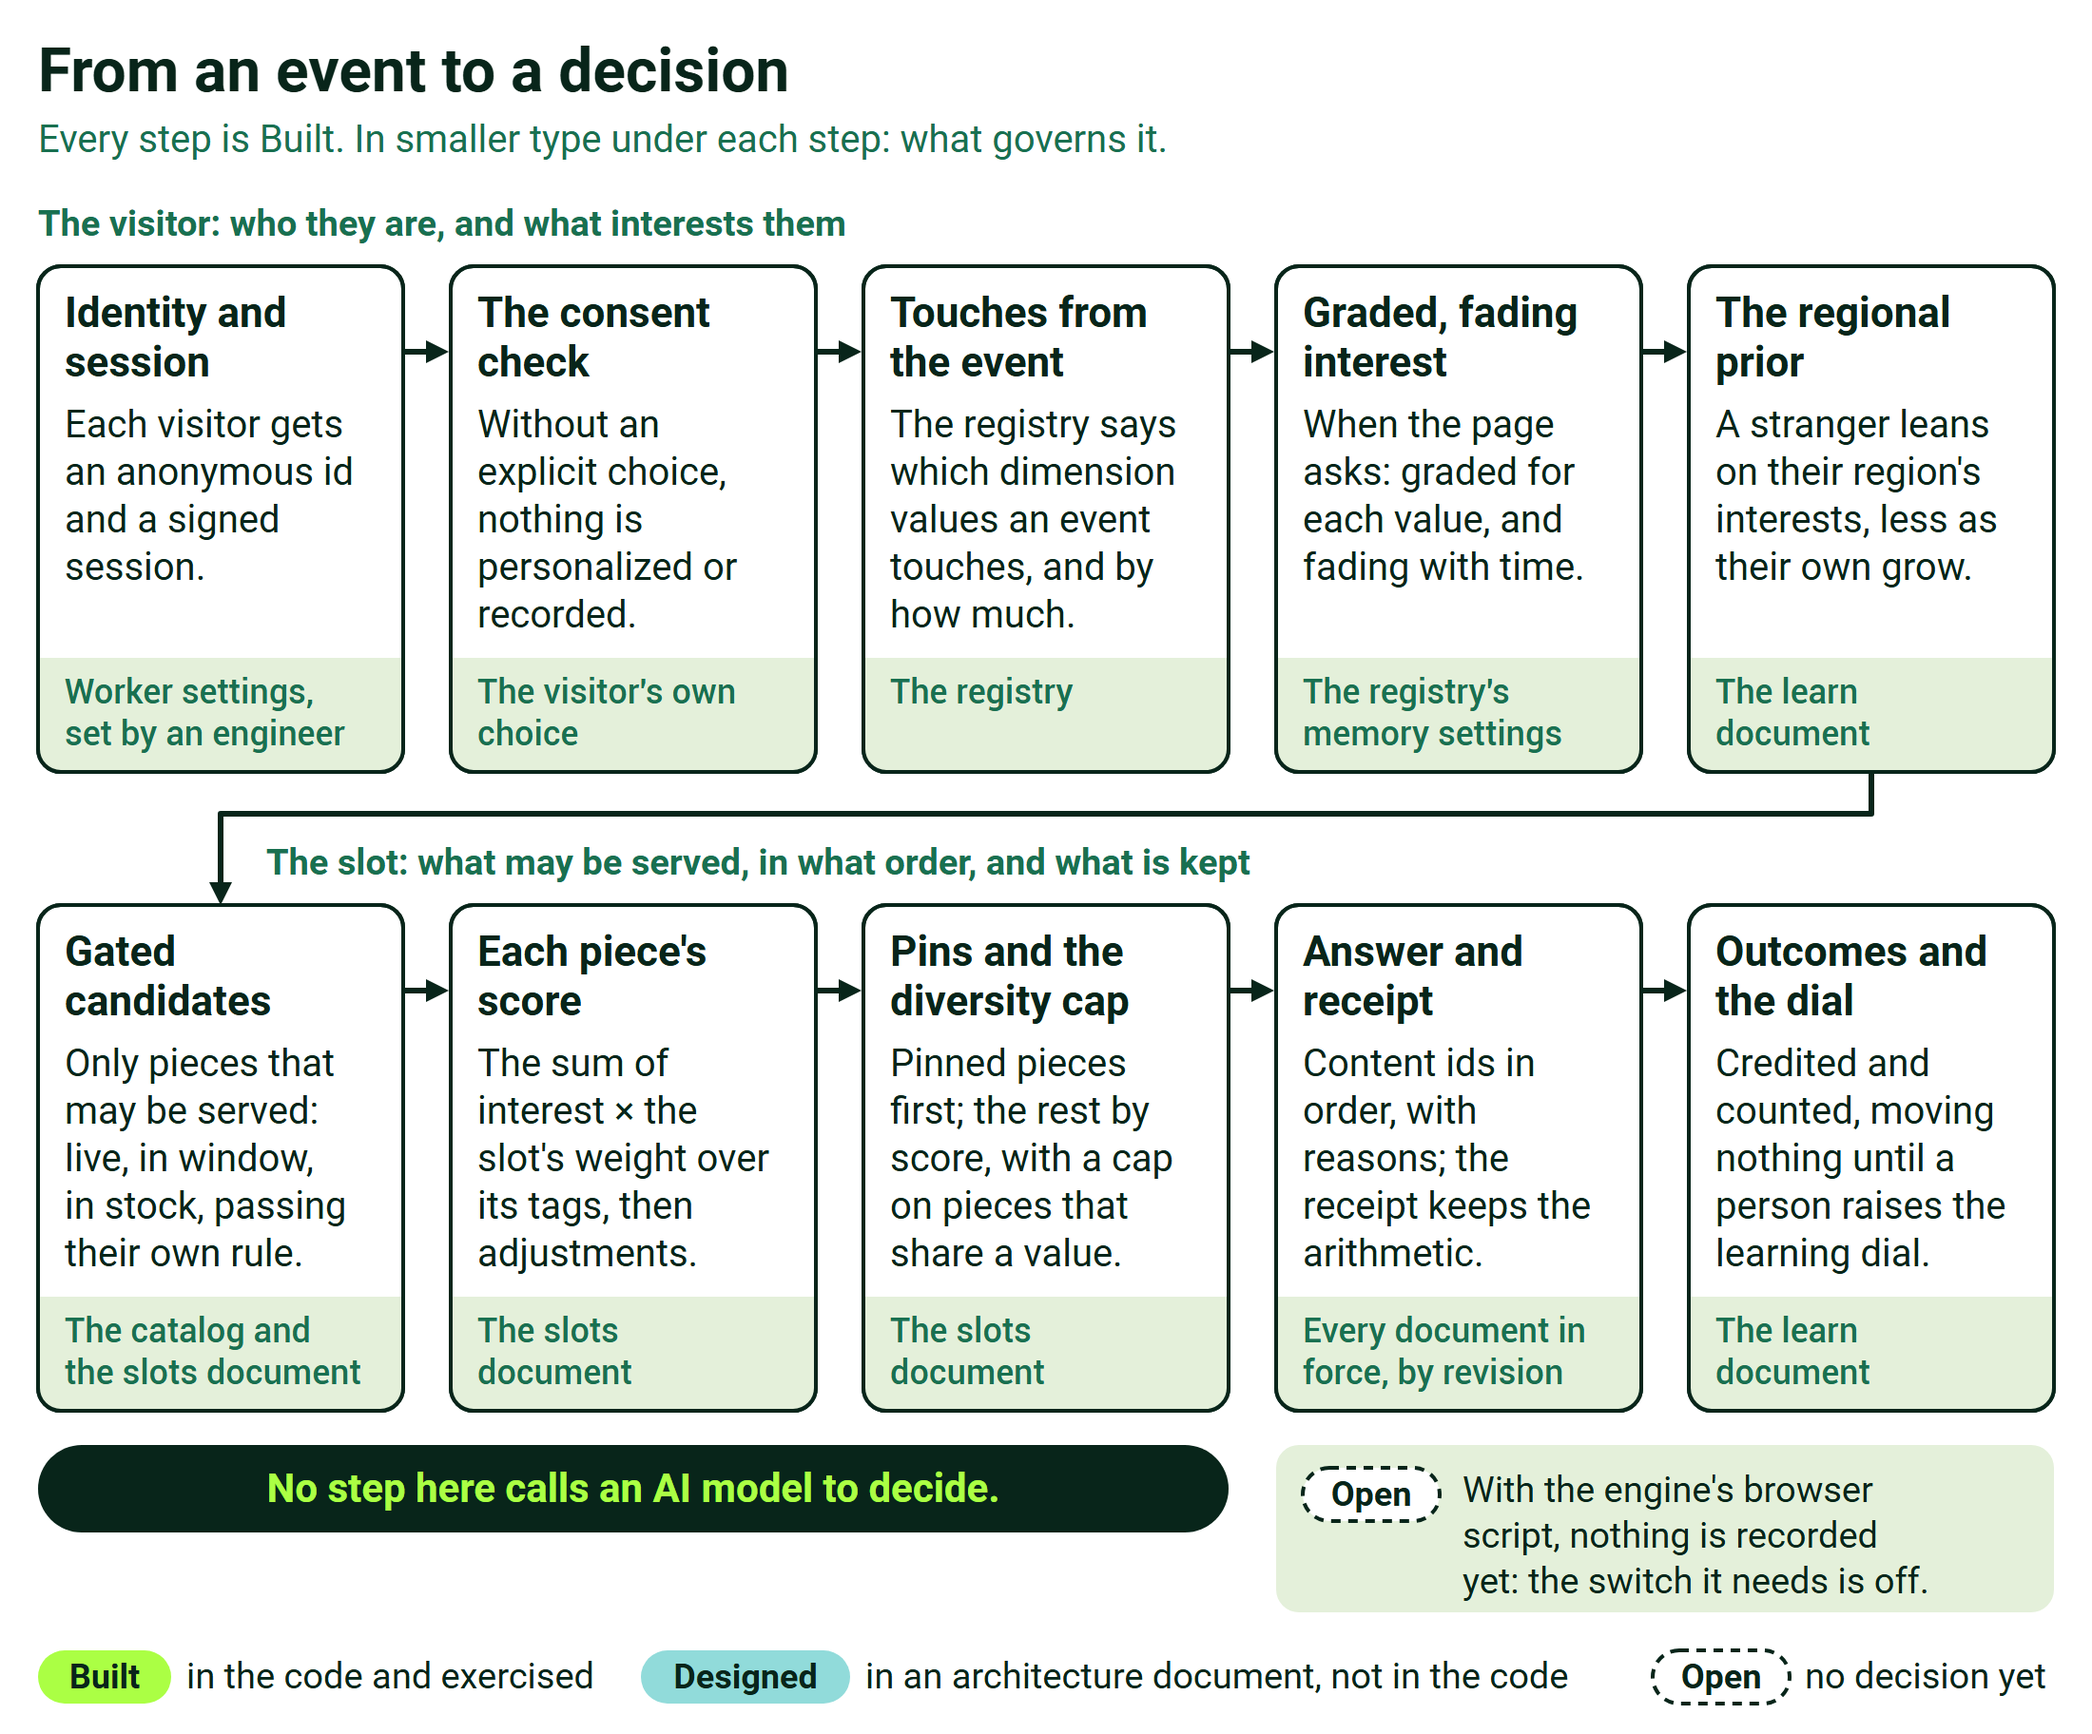
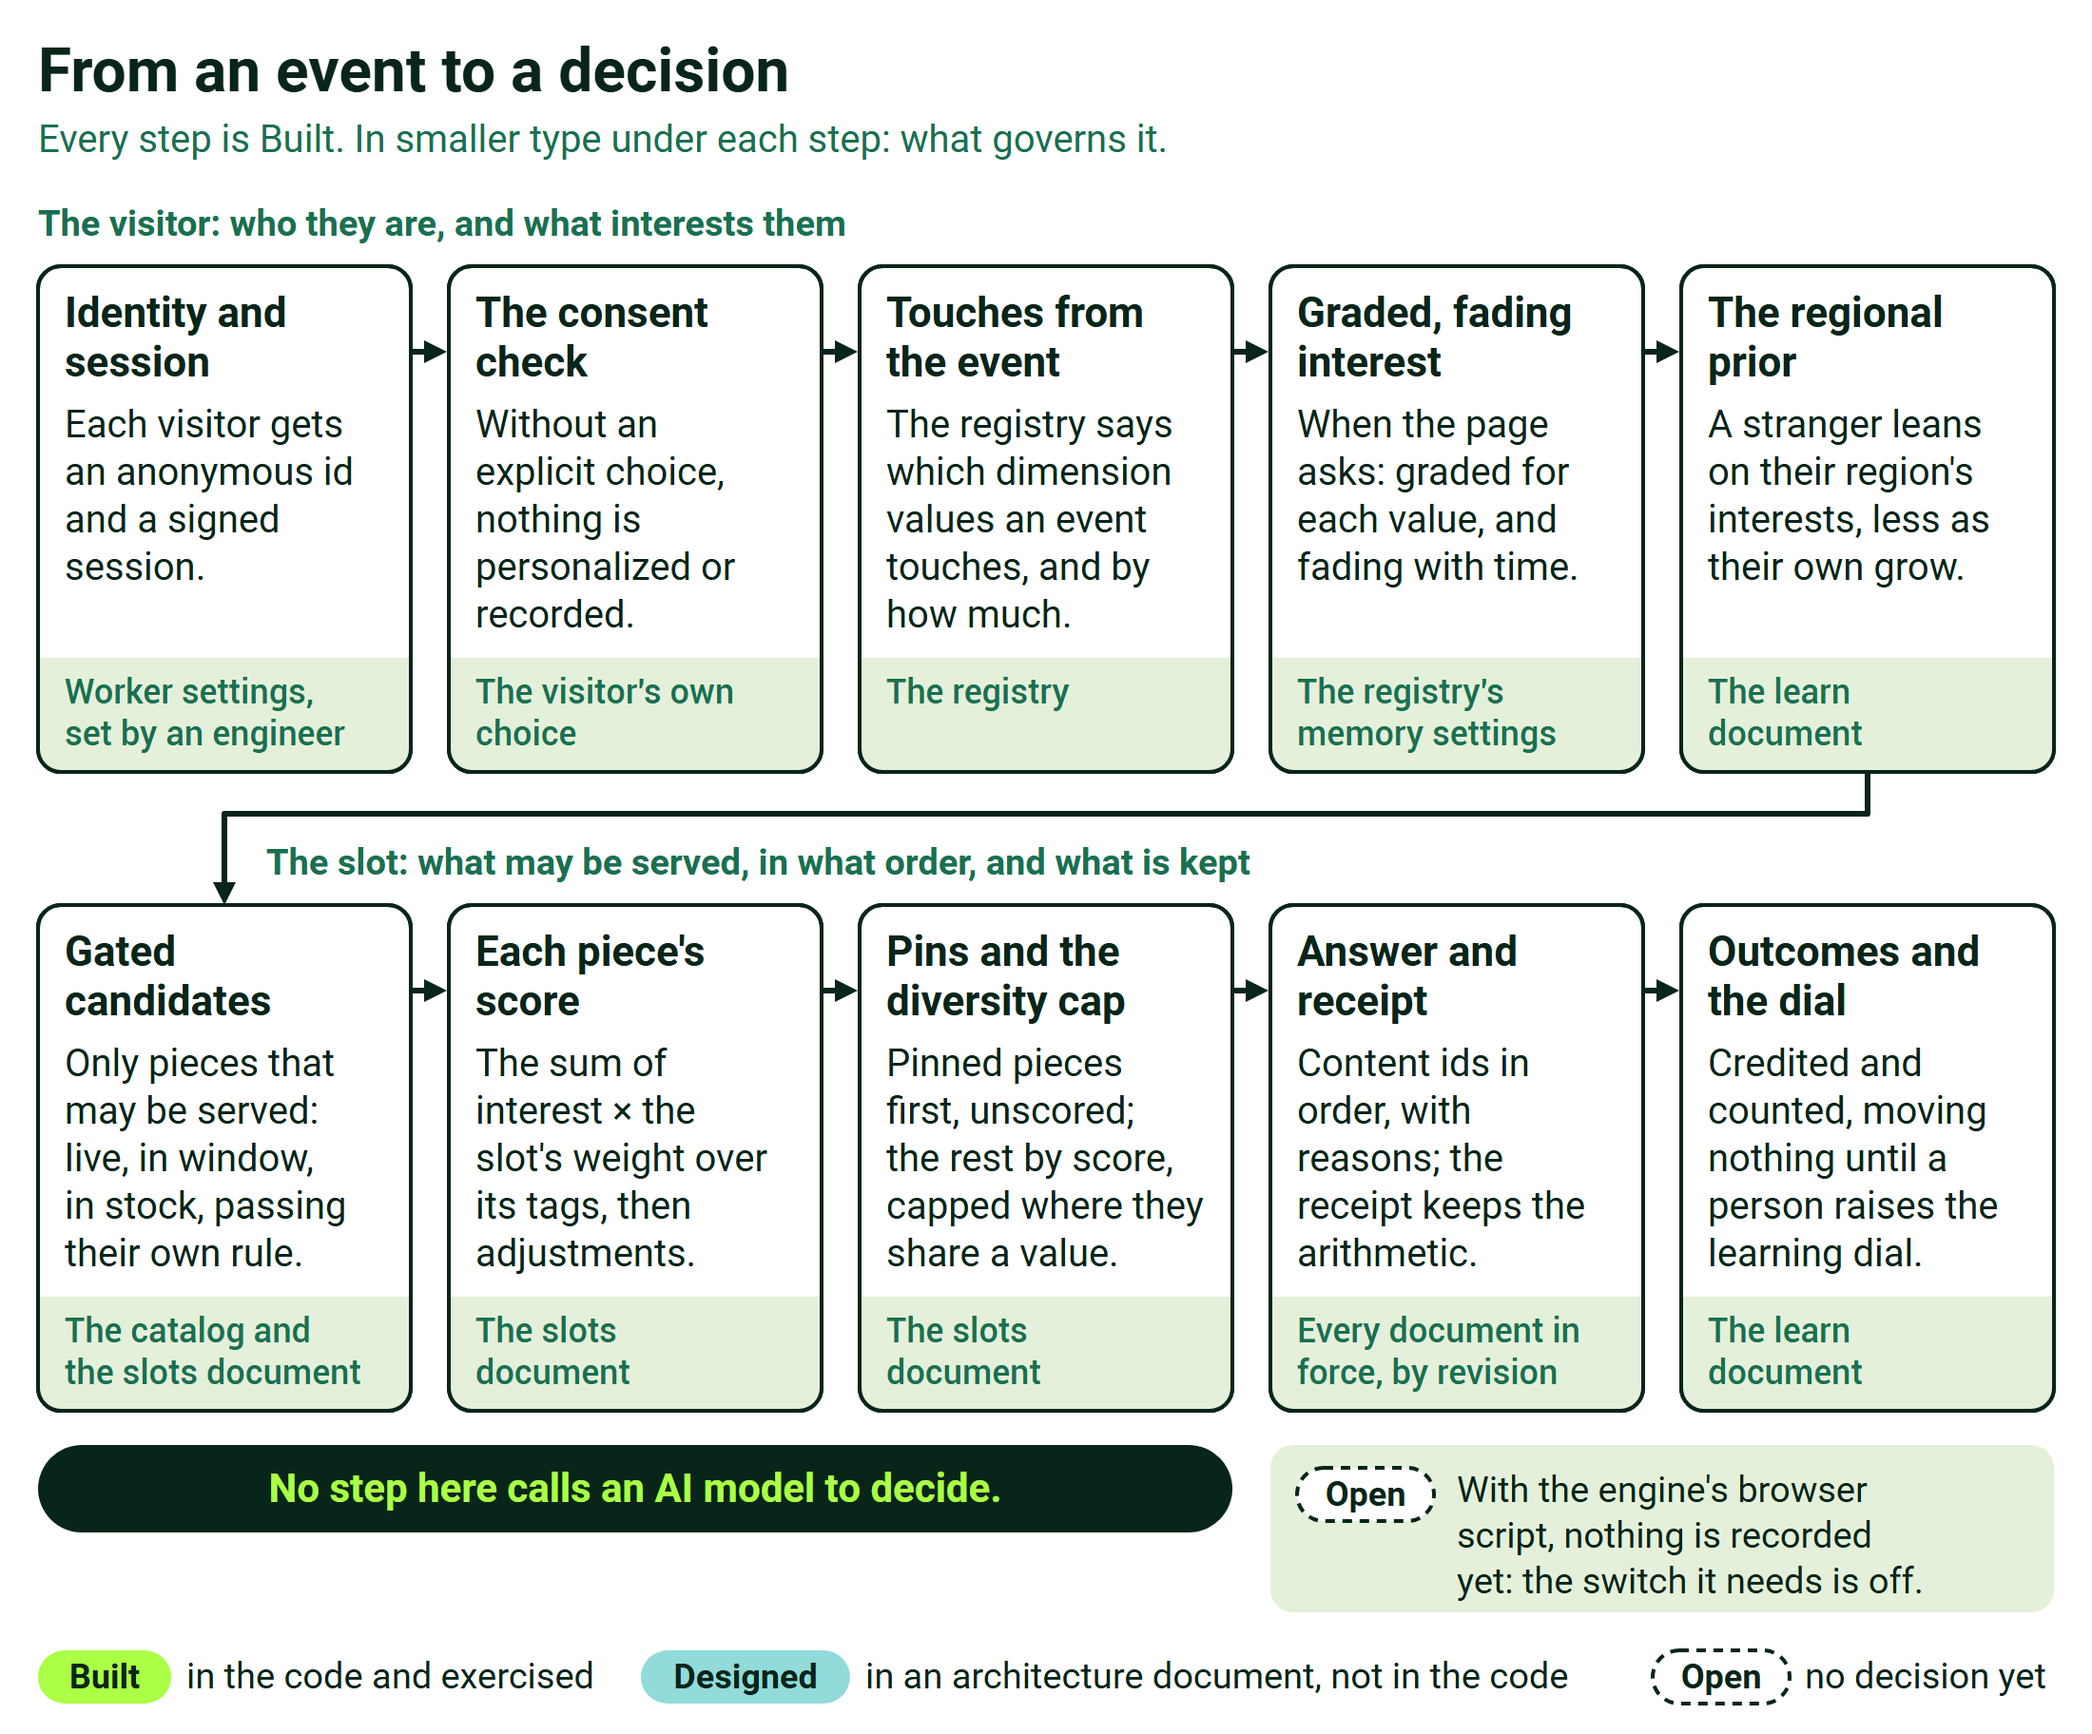
Enablement figures: one legend only; pins reserved before scoring in the decision path

diff --git a/docs/enablement/lanes/D1.md b/docs/enablement/lanes/D1.md
@@ -14,8 +14,8 @@ This lane's paths:
 | Figure | SVG canvas | PNG (device scale 2) | Height at 6.5 in wide |
 |---|---|---|---|
 | `architecture.svg`: "Where the engine runs on Cloudflare" | 1100 × 1320 | `architecture.png`, 2200 × 2640 px, 533,355 bytes | 7.80 in |
-| `decision-path.svg`: "From an event to a decision" | 1100 × 912 | `decision-path.png`, 2200 × 1824 px, 349,261 bytes | 5.39 in |
-| `before-during-after.svg`: "One visitor's session: what happens before, during and after" | 1100 × 1012 | `before-during-after.png`, 2200 × 2024 px, 444,757 bytes | 5.98 in |
+| `decision-path.svg`: "From an event to a decision" | 1100 × 912 | `decision-path.png`, 2200 × 1824 px, 349,905 bytes | 5.39 in |
+| `before-during-after.svg`: "One visitor's session: what happens before, during and after" | 1100 × 968 | `before-during-after.png`, 2200 × 1936 px, 417,472 bytes | 5.72 in |
 
 All three fit under the converter's 8 in limit, so `scripts/md2docx.mjs` sets each at the full 6.5 in text width.
 
@@ -79,7 +79,7 @@ calls an AI model to decide. The drawing and its description carry no numeral an
 | The regional prior | A stranger leans on their region's interests, less as their own grow | The learn document | 3.6; 3.7; 3.17 |
 | Gated candidates | Only pieces that may be served: live, in window, in stock, passing their own rule | The catalog and the slots document | 3.9; 3.10; 4.2 |
 | Each piece's score | The sum of interest × the slot's weight over its tags, then adjustments | The slots document | 3.11 |
-| Pins and the diversity cap | Pinned pieces first; the rest by score, with a cap on pieces that share a value | The slots document | 3.10; 3.12 |
+| Pins and the diversity cap | Pinned pieces first, unscored; the rest by score, capped where they share a value | The slots document | 3.10; 3.12 |
 | Answer and receipt | Content ids in order, with reasons; the receipt keeps the arithmetic | Every document in force, by revision | 3.14 |
 | Outcomes and the dial | Credited and counted, moving nothing until a person raises the learning dial | The learn document | 3.13; 3.15; 5.2; 5.7 |
 | Open, under the last two steps | With the engine's browser script, nothing is recorded yet: the switch it needs is off | | 3.15; 10.2 |
@@ -87,18 +87,18 @@ calls an AI model to decide. The drawing and its description carry no numeral an
 
 ### 2.3 `before-during-after.svg`
 
-**Assertion.** The credits page's device: the rule in two halves, three phases of one visitor's session, a
-verdict band on every card in one legend, a status chip on every card, the one exception flagged once, and a
+**Assertion.** The credits page's device: the rule in two halves, three parts of one visitor's session, a
+credit line in words on every card, a status chip on every card, the one exception flagged once, and a
 takeaway per phase. During the session the engine calls no AI model to decide and uses no credits. Opal's part is
 the documented rule and is not wired today.
 
-| Card | Verdict | Status | Sources |
+| Card | Credit line | Status | Sources |
 |---|---|---|---|
 | Rule: The engine decides. Calls no AI model to decide; no credits | | Built | S2 6.1; 6.2 |
 | Rule: Opal creates and explains. Credits apply, as documented | | Open, not wired today | S2 6.2; guide 1 |
 | Before: The team publishes the documents the engine follows | No AI · no credits | Built | S2 4.1-4.6 |
 | Before: Opal drafts an audience, a test or a setting from plain words; a person approves | Credits apply | Open, not wired today | S2 6.2; guide 2 (BEFORE) |
-| Before: A model on the customer's own key suggests content labels; a person approves each one | Credits not decided | Built, off by default | S2 6.1; 6.3 |
+| Before: A model on the customer's own key suggests tags for content; a person approves each one | Credits not decided | Built, off by default | S2 6.1; 6.3 |
 | Before, takeaway: Credits follow the team's requests, not the traffic | | | guide 1; 3, item 2 |
 | During: The engine decides at the edge, from the published rules | No AI · no credits | Built | S2 1; 6.1 |
 | During: Interest, ranking and receipts are arithmetic, written as data | No AI · no credits | Built | S2 6.1; 6.2 |
@@ -107,8 +107,8 @@ the documented rule and is not wired today.
 | After: The engine credits and counts outcomes; nothing moves until a person raises the learning dial | No AI · no credits | Built; Open: nothing is recorded yet from the engine's browser script | S2 3.15; 5.1; 5.2; 10.2 |
 | After: The team reads the receipts and the day report in the console | No AI · no credits | Built | S2 3.14; 3.16; 4.5 |
 | After: Asking Opal to explain results or find patterns in them | Credits apply | Open, not wired today | S2 6.2; guide 2 (AFTER) |
-| After, takeaway: The learning costs no credits; asking Opal about it does | | | guide 1; 5 (FAQ) |
-| Legend note: Verdicts follow the documented credit rule, which is Designed; the billing meter is Open | | | S2 6.3; 10.1 |
+| After, takeaway: The learning costs no credits; asking Opal about it would | | | guide 1; 5 (FAQ); S2 6.2 |
+| Legend note: The credit line on each card follows the documented credit rule, which is Designed; the billing meter is Open | | | S2 6.3; 10.1 |
 
 The guide's rows not carried: Opal creating audiences "in ODP" (S2 6.2 and Appendix A correct it); the CMAB and
 ODP rows of DURING (separate products under their own licences, not in the decision path and not wired, S2 6.3,
@@ -134,7 +134,7 @@ claim that scene images are generated once and cached (not in S2).
    engineer (S2 4.6); consent rests on the visitor's own choice (S2 3.2, 7.7). The footers say so.
 7. **Labels are noun phrases.** The brief's clauses became "Graded, fading interest", "Gated candidates" and
    "Each piece's score"; "consent checked" became "The consent check".
-8. **Figure 3 has a fourth verdict, "Credits not decided",** for design-time tagging. The guide gives it credits;
+8. **Figure 3 has a fourth credit line, "Credits not decided",** for design-time tagging. The guide gives it credits;
    S2 6.3 says whether it is billed as Opal credits is open.
 9. **Gender-neutral wording** (the coordinator's ruling): "the visitor", "their", "them". A word-boundary,
    case-insensitive scan of each SVG, comments included, for she, her, hers, he, him and his finds zero matches.
@@ -181,9 +181,9 @@ It runs with the stack as written (Roboto renders on this machine), then with th
 Arial, the Windows and Helvetica-class fallbacks. Verdana, about 10 % wider and not in the stack, runs as a
 stress test only.
 
-**Results, final files:** all three report 0 overflow, 0 text overlaps, 0 partial box overlaps, 0 off canvas and 0
-lines under 5 % spare width, in Roboto, Segoe UI and Arial. Verdana overflows 11 to 17 lines, which is expected
-and does not count.
+**Results, final files:** all three report 0 overflow, 0 text overlaps, 0 partial box overlaps and 0 off canvas, in
+Roboto, Segoe UI and Arial. One line has less than 5 % spare width: "capped where they" in figure 2's step 8, the
+review's own wording, with 4 to 7 px to spare. Verdana overflows 6 to 14 lines, which is expected and does not count.
 
 **In print at 6.5 in:**
 
@@ -222,11 +222,9 @@ phone at fit width. Two ways close the gap:
   - Built: LF Green `#ABFF44` pill, Dark Fir `#08251A` text;
   - Designed: Light Blue `#91DBDA` pill, Dark Fir text;
   - Open: white pill with a 2 px dashed Dark Fir border (dashes 5 and 4), Dark Fir text.
-- **Figure 3's verdict bands:**
-  - Dark Fir: "No AI · no credits";
-  - Light Fir `#197050`: "Credits apply";
-  - Neutral 5 `#C3CEAF`: "Metered per use";
-  - white with a dashed border: "Credits not decided".
+- **Figure 3's credit lines are words, not chips:** "No AI · no credits", "Credits apply", "Metered per use" and
+  "Credits not decided", each in bold as the first line of its card. No fill or border marks them, so the only
+  legend is Built, Designed, Open (review R-F1).
 - **Type:** the site's body stack (Roboto, Segoe UI, system-ui, -apple-system, Helvetica Neue, Arial,
   sans-serif); nothing is fetched.
 - **The package name is in no figure.** The figures say "the engine", so a rename needs no figure change.
@@ -248,3 +246,28 @@ phone at fit width. Two ways close the gap:
 The documented credit rule reads as Designed (a planning document, not code); figure 3 already labels it so.
 Phones are handled on the pages with a frame that scrolls sideways at 720 px or more; stacked phone versions
 of the figures are out of scope for this release and are listed as a later item.
+
+## Review round one, applied (R.md §8.2), 2026-10-02
+
+- **R-F1, `before-during-after.svg`** (with the lead's ruling: one legend, credit verdicts as words in the rows):
+  - (a) the key row headed "Verdict:" is deleted, and the package legend moves up into its place;
+  - (b) all nine credit bands, the "Credits not decided" one included, are now bold words at the top of each card,
+    with no fill and no border, so nothing outside the legend is drawn like a status chip; the only dashed
+    shapes left are the five Open chips;
+  - (c) the legend note reads "The credit line on each card follows the documented credit rule, which is
+    Designed; the billing meter is Open." R wrote "The credit bands"; with the bands gone, "credit line" names
+    what is drawn;
+  - (d) "suggests content labels" is now "suggests tags for content";
+  - R's two recommendations are taken: "asking Opal about it would", because Opal is not wired today, and "three
+    parts" in the comment.
+- **R-F2, `decision-path.svg`:** step 8 reads "Pinned pieces first, unscored; the rest by score, capped where they
+  share a value.", in R's five lines, and the description matches. To give that line room, the ten step boxes are
+  4 px wider (gaps 20 px instead of 25), and every offset inside a box is unchanged.
+- **Not applied:** R's recommendation to write "Worker" in `architecture.svg`. The coordinator scoped this round to
+  the two figures and their PNGs, and changing the architecture PNG would move two content lanes' Word builds.
+- **Checks:** both PNGs re-captured at device scale 2; the overflow audit as in §5 (one line under 5 % spare, given
+  above); the pronoun scan and the "shopper" scan are 0 in all three SVGs; "Verdict" appears in no shown text or
+  description of the session figure.
+- **For the lead and E1:** design §3.6 (line 351) and §3.9 (lines 404 and 412) still describe credit-verdict
+  bands in colors and the dashed "Credits not decided" band; the credits page's credit tags were drawn "in the same
+  language". Both now meet words, not colors.
